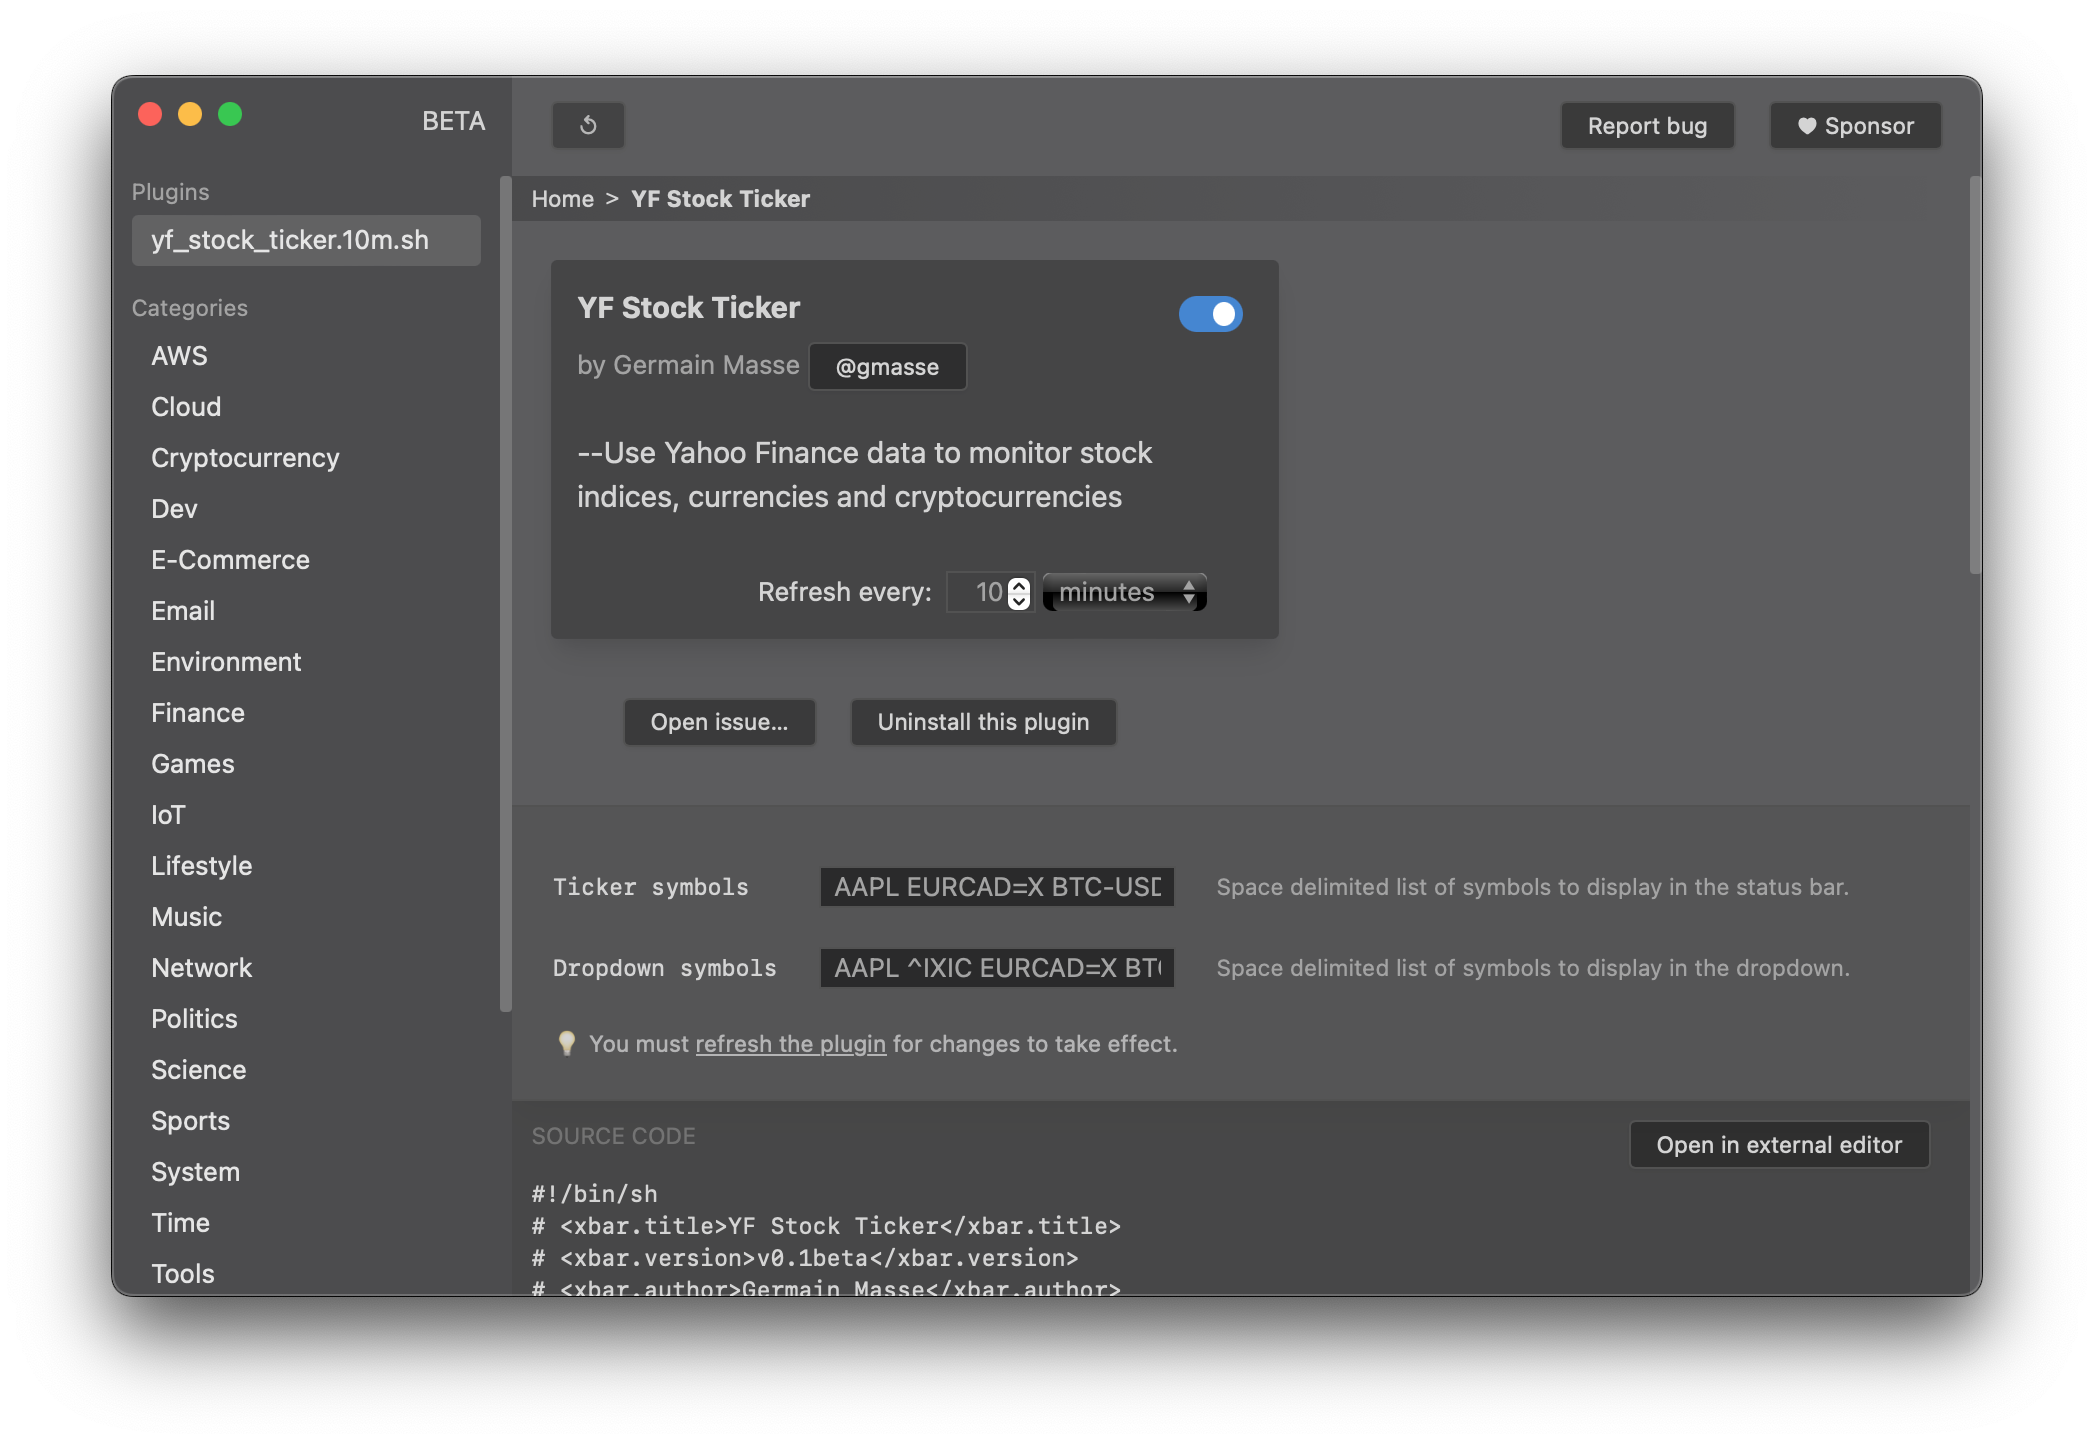
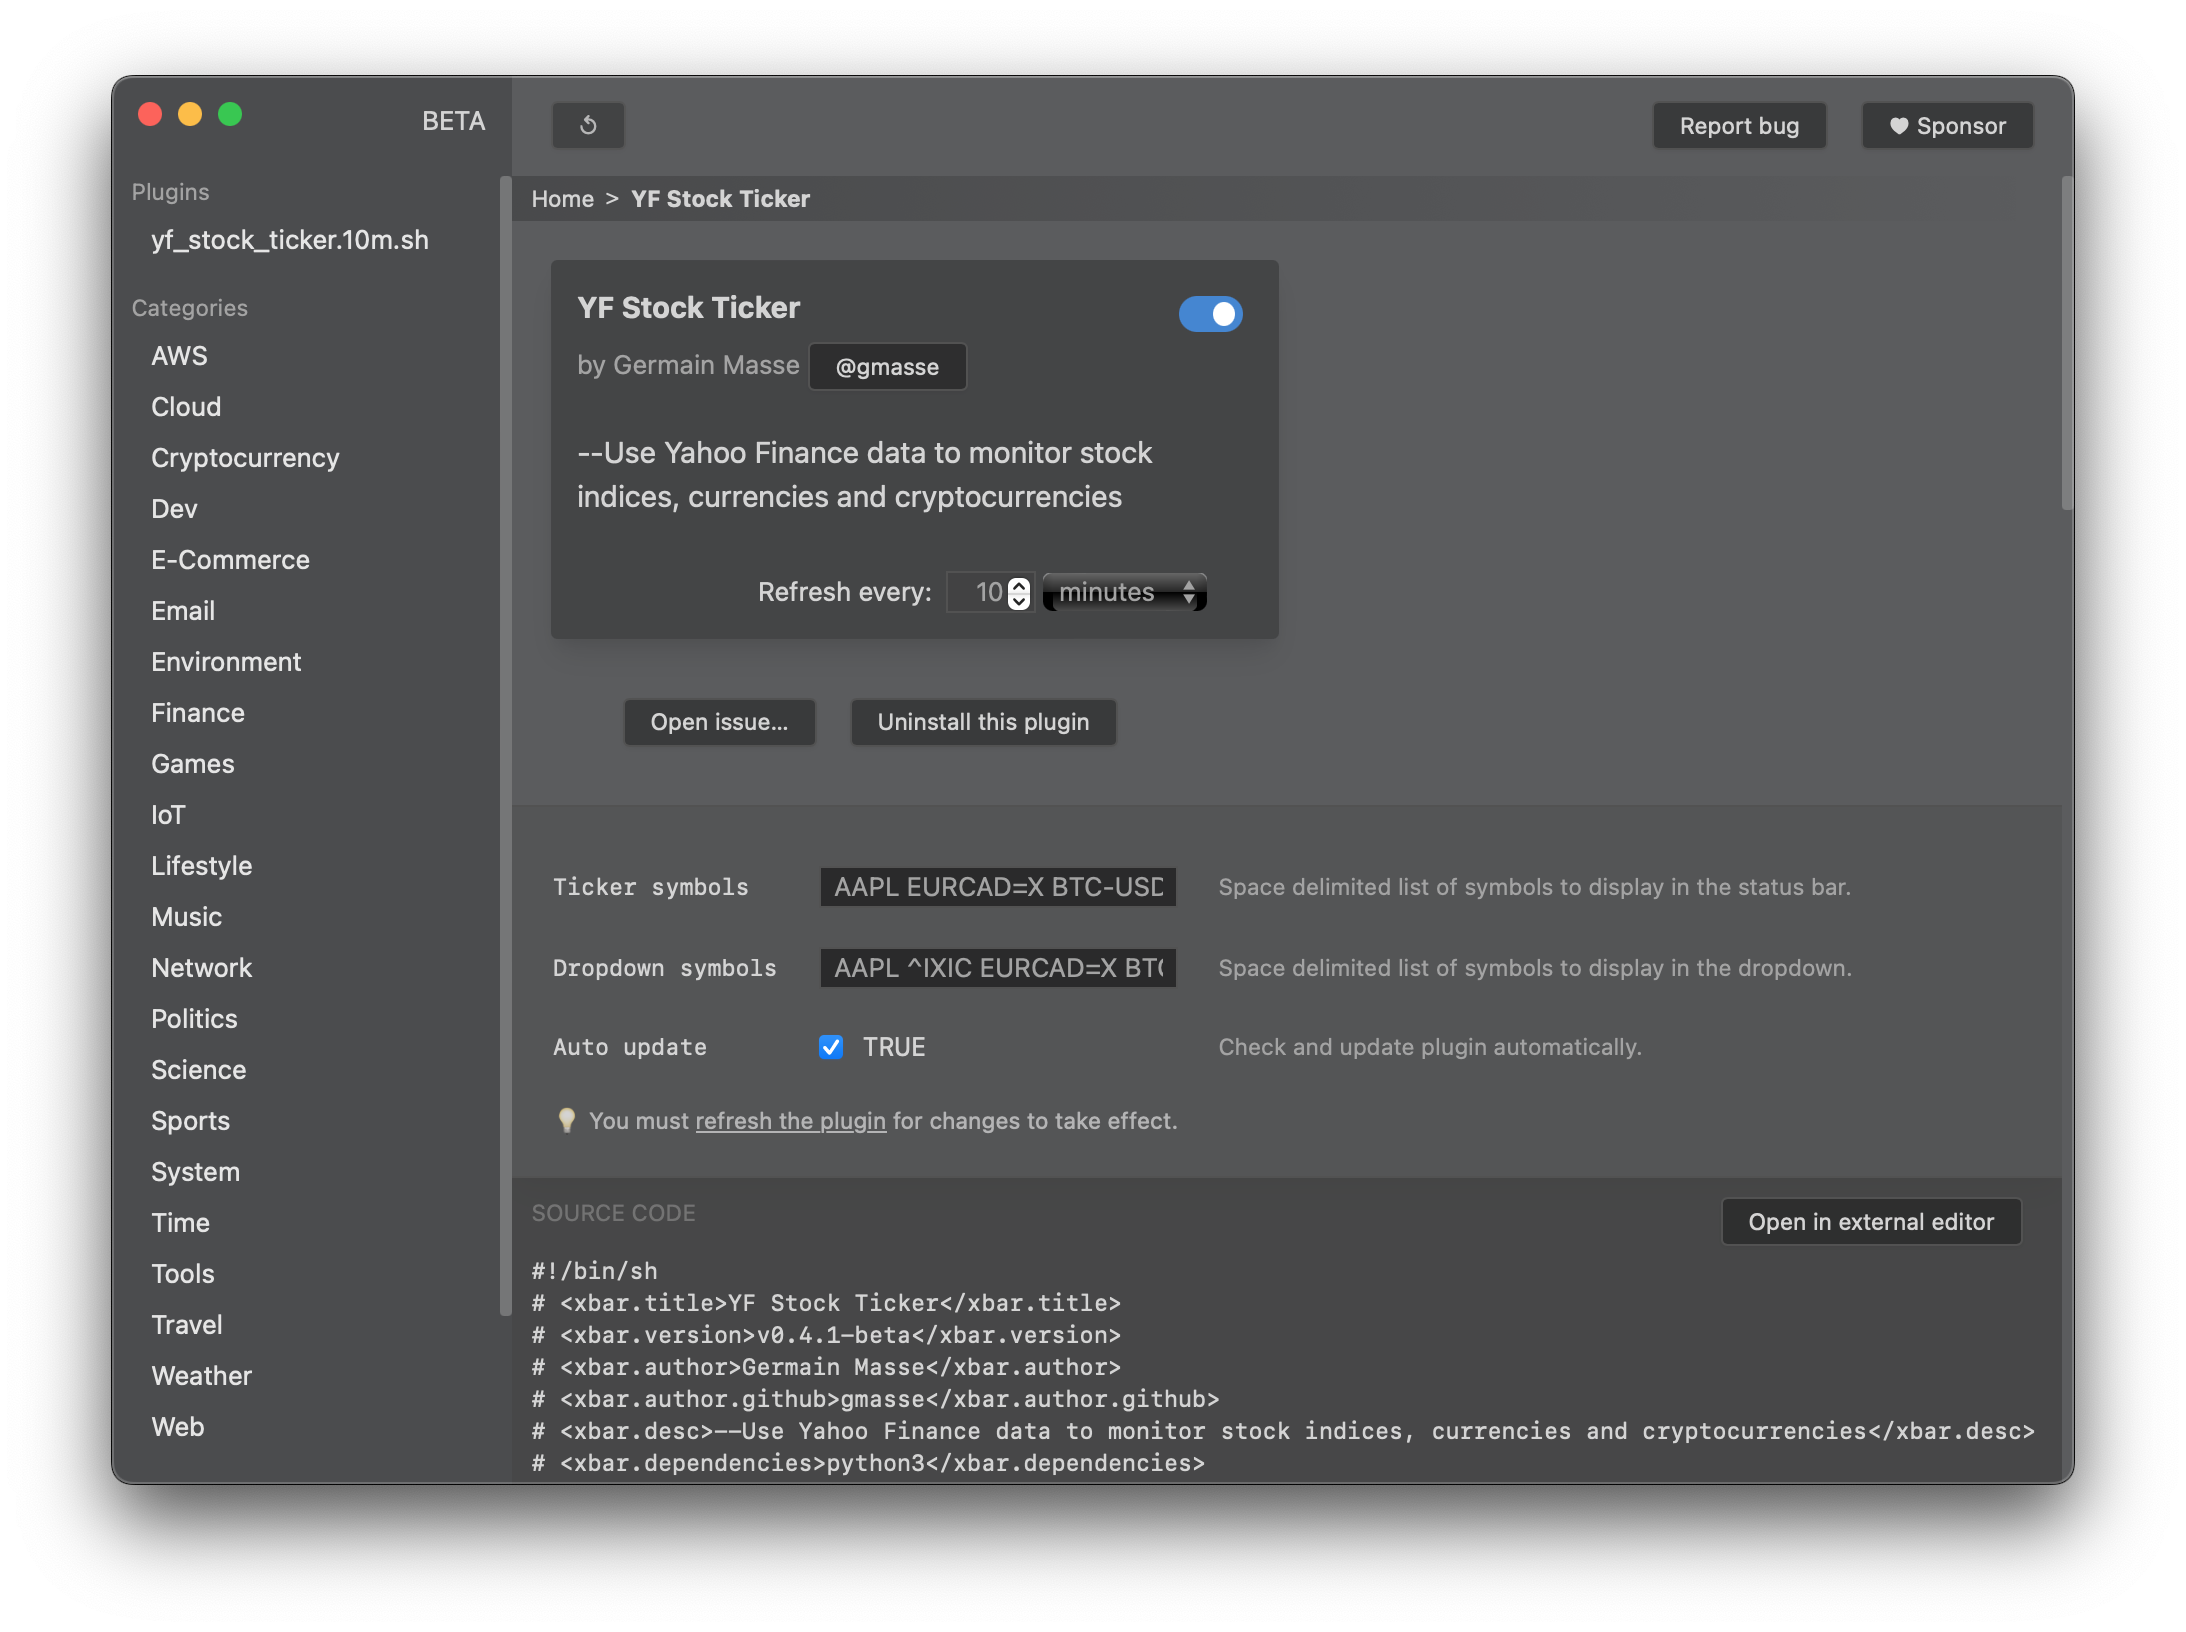
doc: README update

Changed region(s): [[0.031, 0.0312, 0.9623, 0.9349], [0.6829, 0.5298, 0.8381, 0.5609], [0.5277, 0.187, 0.5898, 0.2493]]

diff --git a/README.md b/README.md
@@ -7,6 +7,17 @@ It does not require any account creation or API key. Data collection is made rel
 
 The plugin accepts all the symbols supported by Yahoo! Finance.
 
+## Features
+- Market changes (%) will cycle in the navigation bar
+- Market prices details will appear in the dropdown menu (symbols may be different from those in the navigation bar)
+- Any Yahoo! Finance ticker symbol is supported:
+  - stock (ex. `AAPL`)
+  - index (ex. `^IXIC`)
+  - FX rate (ex. `EURUSD=X`)
+  - Cryptocurrency (ex. `BTC-USD`)
+- Plugin automatic update (for ex. in case of YF breaking change, a plugin update will trigger the yahooquery package update)
+- Configuration (symbols, auto-update) via plugin preferences panel
+
 ## Manual installation
 In a terminal:
 ```sh
